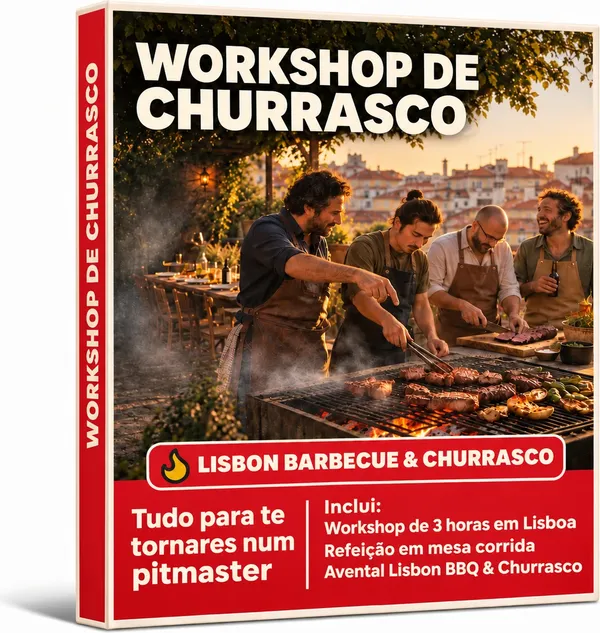
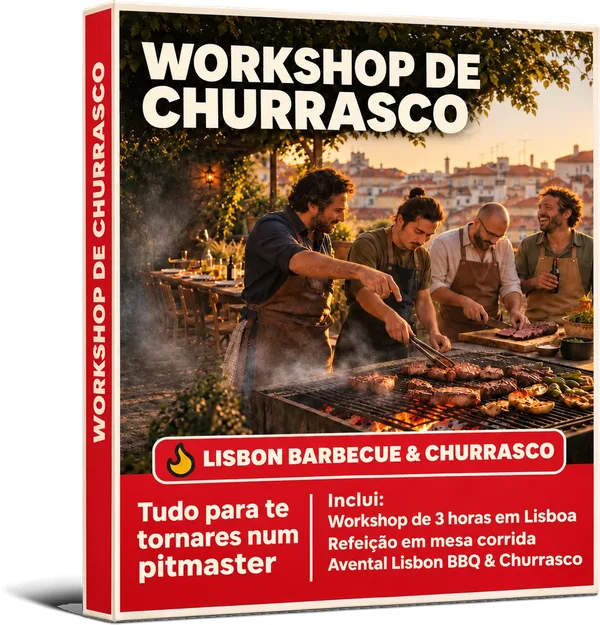
Giftbox: imagem com fundo transparente, sem painel branco

diff --git a/components/WorkshopView.tsx b/components/WorkshopView.tsx
@@ -1137,7 +1137,7 @@ export const WorkshopView: React.FC<{ lang?: Lang }> = ({ lang = 'pt' }) => {
                 <span className="text-2xl leading-none font-black uppercase tracking-tight text-bbq-yellow">{c.calGiftTag}</span>
                 <span className="flex-none text-2xl leading-none font-black">{c.money(GIFT_PRICE)}</span>
               </div>
-              <div className="bg-white border-2 border-bbq-cream p-3 flex justify-center"><img src={GIFT_IMG} alt={c.giftAlt} width={600} height={633} loading="lazy" className="h-44 w-auto object-contain" /></div>
+              <div className="flex justify-center"><img src={GIFT_IMG} alt={c.giftAlt} width={600} height={625} loading="lazy" className="h-48 w-auto object-contain" /></div>
               <span className="font-black uppercase leading-tight">{c.calGiftTitle}</span>
               <span className="font-bold text-sm text-gray-300 leading-snug">{c.calGiftNote}</span>
               <button type="button" onClick={() => openGift('calendar')} className="mt-auto self-start bg-bbq-yellow text-bbq-black border-2 border-bbq-cream px-4 py-2 min-h-[44px] font-black text-xs tracking-[0.1em] uppercase">{c.calGiftCta} · {c.money(GIFT_PRICE)}</button>
@@ -1202,7 +1202,7 @@ export const WorkshopView: React.FC<{ lang?: Lang }> = ({ lang = 'pt' }) => {
                 ) : (
                   <form onSubmit={payGift} noValidate className="flex flex-col gap-6">
                     <div className="flex gap-5 items-center flex-wrap">
-                      <div className="bg-white border-4 border-bbq-black p-2 flex-none"><img src={GIFT_IMG} alt={c.giftAlt} width={600} height={633} loading="lazy" className="w-28 h-auto block" /></div>
+                      <img src={GIFT_IMG} alt={c.giftAlt} width={600} height={625} loading="lazy" className="w-32 h-auto block flex-none" />
                       <div className="flex flex-col gap-2 flex-1 min-w-[14rem]">
                         <span className="text-2xl leading-tight font-black uppercase tracking-tight">{c.giftH}</span>
                         <p className="m-0 leading-normal font-medium">{c.giftP}</p>
